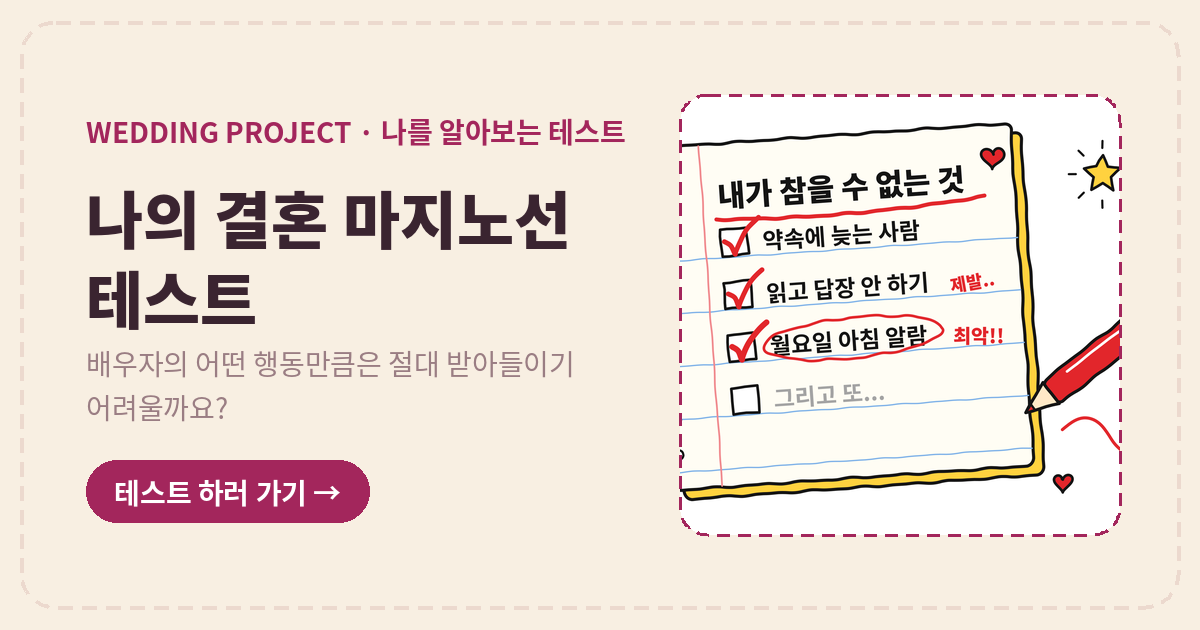
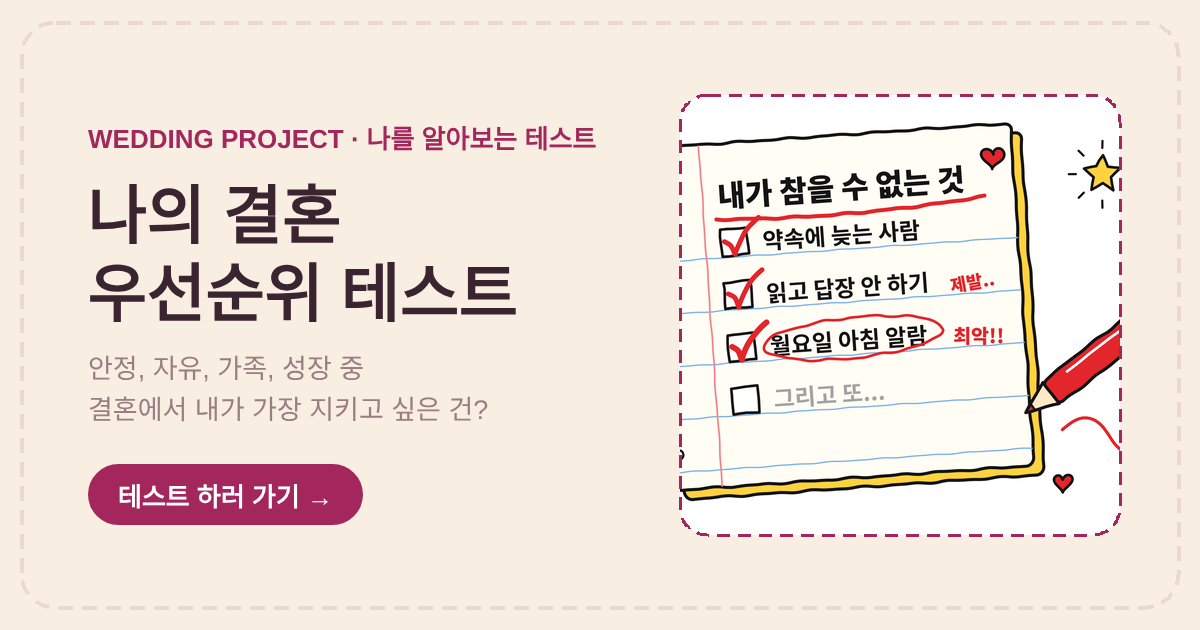
테스트 이름 변경: 나의 결혼 마지노선 테스트 → 나의 결혼 우선순위 테스트
Claude-Session: https://claude.ai/code/session_01S32QDWXtYsxnzG1g1uiRkP

diff --git a/test3/index.html b/test3/index.html
@@ -3,7 +3,7 @@
 <head>
 <meta charset="UTF-8">
 <meta name="viewport" content="width=device-width, initial-scale=1.0">
-<title>결혼 마지노선 테스트</title>
+<title>나의 결혼 우선순위 테스트</title>
 <link rel="preconnect" href="https://fonts.googleapis.com">
 <link rel="stylesheet" href="https://fonts.googleapis.com/css2?family=Gaegu:wght@400;700&family=Noto+Sans+KR:wght@400;500;700;900&display=swap">
 <style>
@@ -302,7 +302,7 @@
   <!-- intro -->
   <div class="screen active" id="screen-intro">
     <img class="hero-img" src="hero.png" alt="">
-    <h1>나의 결혼 마지노선 테스트</h1>
+    <h1>나의 결혼 우선순위 테스트</h1>
     <p class="desc">
       결혼생활에서 배우자의 어떤 행동만큼은 절대 받아들이기 어려울까요?<br><br>
       10가지 상황에 대한 질문에 답하면,<br>
@@ -327,7 +327,7 @@
     <div class="top-card" id="top-card" style="display:none;">
       <div class="top-card-imgs" id="top-card-imgs"></div>
     </div>
-    <div class="result-badge">나의 결혼 마지노선</div>
+    <div class="result-badge">나의 결혼 우선순위</div>
     <div class="result-title" id="result-title"></div>
     <div class="result-desc" id="result-desc"></div>
 
@@ -637,7 +637,7 @@ function mkImg(){
   c.save();c.shadowColor="rgba(58,36,48,.18)";c.shadowBlur=36;c.shadowOffsetY=16;rr(c,cx,cy0,cw,ch,40);c.fillStyle=CARD;c.fill();c.restore();
   c.save();c.setLineDash([12,10]);c.lineWidth=3;c.strokeStyle=ACC;rr(c,cx,cy0,cw,ch,40);c.stroke();c.restore();
   var py=cy0+58;
-  c.textBaseline="alphabetic";c.textAlign="center";c.fillStyle=ACC;c.font="700 34px "+GF;c.fillText("✦ 나의 결혼 마지노선 테스트 ✦",W/2,py);py+=46;
+  c.textBaseline="alphabetic";c.textAlign="center";c.fillStyle=ACC;c.font="700 34px "+GF;c.fillText("✦ 나의 결혼 우선순위 테스트 ✦",W/2,py);py+=46;
   /* 완성된 캐릭터 카드(이름/문구 포함)를 그대로 보여줌 - 1장 또는 동점이면 여러 장 */
   var n=loaded.length,gap=36,phW=Math.min(420,(cw-112-(n-1)*gap)/n),rowW=n*phW+(n-1)*gap,startX=W/2-rowW/2;
   loaded.forEach(function(img,i){
@@ -661,11 +661,11 @@ function mkImg(){
   c.fillStyle=ACC;c.font="700 30px "+GF;c.fillText("Wedding Project",W/2,py);
   cv.toBlob(function(b){done(b)},"image/png")})}).catch(function(){return new Promise(function(done){
   var W=1080,H=700,cv=document.createElement("canvas");cv.width=W;cv.height=H;var c=cv.getContext("2d");
-  c.fillStyle="#f8efe2";c.fillRect(0,0,W,H);c.textAlign="center";c.fillStyle="#a3265c";c.font="700 56px "+GF;c.fillText("나의 결혼 마지노선 테스트",W/2,350);
+  c.fillStyle="#f8efe2";c.fillRect(0,0,W,H);c.textAlign="center";c.fillStyle="#a3265c";c.font="700 56px "+GF;c.fillText("나의 결혼 우선순위 테스트",W/2,350);
   cv.toBlob(function(b){done(b)},"image/png")})})
 }
 var FN='"Noto Sans KR","Apple SD Gothic Neo","Malgun Gothic",sans-serif';
-function sumTxt(){return "나의 결혼 마지노선 테스트 결과: " + LR.topTypes.map(function(t){return RESULTS[t].name}).join(" · ")}
+function sumTxt(){return "나의 결혼 우선순위 테스트 결과: " + LR.topTypes.map(function(t){return RESULTS[t].name}).join(" · ")}
 
 [1,2].forEach(function(n){
  var saveBtn=document.getElementById('sv'+n),shareBtn=document.getElementById('sh'+n);
@@ -678,14 +678,14 @@ function sumTxt(){return "나의 결혼 마지노선 테스트 결과: " + LR.to
  saveBtn.onclick=function(){st.textContent='사진을 만드는 중이에요.';
   mkImg().then(function(blob){
    var url=showPreview(blob);
-   try{var a=document.createElement('a');a.href=url;a.download='결혼마지노선-결과.png';document.body.appendChild(a);a.click();document.body.removeChild(a);
+   try{var a=document.createElement('a');a.href=url;a.download='결혼우선순위-결과.png';document.body.appendChild(a);a.click();document.body.removeChild(a);
     st.textContent='사진을 저장했어요. 저장되지 않았다면 아래 사진을 길게 눌러 저장해 주세요.'}
    catch(e){hint()}
   }).catch(function(){st.textContent='사진을 만들지 못했어요. 다시 시도해 주세요.'})};
  shareBtn.onclick=function(){
   function fb(){var s=sumTxt();try{navigator.clipboard.writeText(s).then(function(){st.textContent='공유 기능을 쓸 수 없어 결과 요약을 복사했어요. 사진으로 저장해서 함께 보내 주세요.'},function(){st.textContent='공유 기능을 쓸 수 없어요. 사진으로 저장해서 보내 주세요.'})}catch(e){st.textContent='공유 기능을 쓸 수 없어요. 사진으로 저장해서 보내 주세요.'}}
-  mkImg().then(function(blob){var f=new File([blob],'결혼마지노선-결과.png',{type:'image/png'});
-   if(navigator.canShare&&navigator.canShare({files:[f]}))return navigator.share({files:[f],title:'나의 결혼 마지노선 테스트',text:sumTxt()});
+  mkImg().then(function(blob){var f=new File([blob],'결혼우선순위-결과.png',{type:'image/png'});
+   if(navigator.canShare&&navigator.canShare({files:[f]}))return navigator.share({files:[f],title:'나의 결혼 우선순위 테스트',text:sumTxt()});
    fb()}).catch(function(e){if(!e||e.name!=='AbortError')fb()})};
 });
 

diff --git a/games/index.html b/games/index.html
@@ -4,11 +4,11 @@
 <meta charset="utf-8">
 <meta name="viewport" content="width=device-width, initial-scale=1">
 <title>테스트 & 밸런스 게임 모아보기 | 웨딩 프로젝트</title>
-<meta name="description" content="결혼 가치관 맞춰보기, 결혼 마지노선 테스트, 신혼생활 밸런스 게임까지. 둘이 함께 해보는 결혼 테스트를 한곳에 모았어요.">
+<meta name="description" content="결혼 가치관 맞춰보기, 결혼 우선순위 테스트, 신혼생활 밸런스 게임까지. 둘이 함께 해보는 결혼 테스트를 한곳에 모았어요.">
 <meta property="og:type" content="website">
 <meta property="og:site_name" content="웨딩 프로젝트">
 <meta property="og:title" content="테스트 & 밸런스 게임 모아보기 | 웨딩 프로젝트">
-<meta property="og:description" content="결혼 가치관 맞춰보기, 결혼 마지노선 테스트, 신혼생활 밸런스 게임까지. 둘이 함께 해보는 결혼 테스트를 한곳에 모았어요.">
+<meta property="og:description" content="결혼 가치관 맞춰보기, 결혼 우선순위 테스트, 신혼생활 밸런스 게임까지. 둘이 함께 해보는 결혼 테스트를 한곳에 모았어요.">
 <meta property="og:image" content="https://wedding-project.softloomon.workers.dev/og/home.png">
 <meta property="og:image:width" content="1200">
 <meta property="og:image:height" content="630">

diff --git a/tests-data.js b/tests-data.js
@@ -2,7 +2,7 @@
    새 테스트는 여기에 한 줄 추가하면 돼요. game:true 면 '게임 하기' 버튼이 나와요.
    done: 결과 화면이 나왔는지 알아보는 표시(이게 보이면 아래에 다른 게임 추천이 나와요) */
 window.WP_TESTS = [
-  { id:"majinoseon", title:"나의 결혼 마지노선 테스트", desc:"배우자의 어떤 행동만큼은 절대 받아들이기 어려울까요?", img:"test3/card.svg", src:"test3/", tone:"#ffffff", fit:true, done:"#screen-result.active" },
+  { id:"majinoseon", title:"나의 결혼 우선순위 테스트", desc:"안정, 자유, 가족, 성장 중 결혼에서 내가 가장 지키고 싶은 건?", img:"test3/card.svg", src:"test3/", tone:"#ffffff", fit:true, done:"#screen-result.active" },
   { id:"values", title:"결혼 가치관 맞춰보기", desc:"우리, 결혼에 대해 같은 그림을 그리고 있을까?", img:"values/hero.jpg", src:"values/", tone:"#fffaf2", done:"#rs, #cp" },
   { id:"balance", title:"신혼생활 밸런스 게임", desc:"정답은 없어요. 다만 둘의 답이 다를 뿐! 20문항, 2분이면 끝.", img:"balance/img/cover.png", src:"balance/", tone:"#ffffff", fit:true, game:true, done:"#resTitle, #retryBtn" }
 ];

diff --git a/index.html b/index.html
@@ -11,7 +11,7 @@
 <meta property="og:type" content="website">
 <meta property="og:site_name" content="웨딩 프로젝트">
 <meta property="og:title" content="웨딩 프로젝트 | 예비부부를 위한 결혼 테스트">
-<meta property="og:description" content="결혼 가치관 맞춰보기, 결혼 마지노선 테스트, 신혼생활 밸런스 게임으로 둘의 생각을 맞춰 보세요.">
+<meta property="og:description" content="결혼 가치관 맞춰보기, 결혼 우선순위 테스트, 신혼생활 밸런스 게임으로 둘의 생각을 맞춰 보세요.">
 <meta property="og:image" content="https://wedding-project.softloomon.workers.dev/og/home.png">
 <meta property="og:image:width" content="1200">
 <meta property="og:image:height" content="630">

diff --git a/worker.js b/worker.js
@@ -395,8 +395,8 @@ const PAGES = {
     image: "/og/values.png",
   },
   "/test3/": {
-    title: "나의 결혼 마지노선 테스트 | 웨딩 프로젝트",
-    desc: "배우자의 어떤 행동만큼은 절대 받아들이기 어려울까요? 나의 결혼 마지노선을 알아보세요.",
+    title: "나의 결혼 우선순위 테스트 | 웨딩 프로젝트",
+    desc: "안정, 자유, 가족, 성장 중 결혼에서 내가 가장 지키고 싶은 건 무엇일까요? 10가지 상황으로 나의 결혼 우선순위를 알아보세요.",
     image: "/og/test3.png",
   },
   "/balance/": {

diff --git a/README.md b/README.md
@@ -6,7 +6,7 @@
 
 - `index.html` — Wedding Project 메인 페이지. 카테고리 4개: ① 테스트 & 밸런스 게임(카드 슬라이드) ② 결혼 준비 정보 ③ 연인이 나누면 좋을 대화 질문 ④ 궁금한 점 질문하기(질문 접수 폼)
 - `values/index.html` — 결혼 가치관 맞춰보기 테스트 (질문, 결과 화면, 이미지 저장/공유 기능 포함)
-- `test3/index.html` — 나의 결혼 마지노선 테스트
+- `test3/index.html` — 나의 결혼 우선순위 테스트
 - `balance/index.html` — 신혼생활 밸런스 게임 (그림은 `balance/img/`)
 - `qna/` — 익명 질문방 페이지(`index.html`), 관리자 페이지(`admin.html`), 공통 스크립트·스타일
 - `worker.js`, `wrangler.jsonc`, `.assetsignore` — Cloudflare Workers 설정과 익명 질문방 API
@@ -70,7 +70,7 @@ Vercel이나 Netlify 둘 다 대시보드의 **Domains** 메뉴에서 구매한 
 
 - 테스트마다 자기 주소가 있어요. 블로그나 메신저에는 이 주소를 붙여 넣으세요.
   - 결혼 가치관 맞춰보기: `https://wedding-project.softloomon.workers.dev/values/`
-  - 나의 결혼 마지노선 테스트: `https://wedding-project.softloomon.workers.dev/test3/`
+  - 나의 결혼 우선순위 테스트: `https://wedding-project.softloomon.workers.dev/test3/`
   - 신혼생활 밸런스 게임: `https://wedding-project.softloomon.workers.dev/balance/`
   - 익명 질문방: `https://wedding-project.softloomon.workers.dev/qna/`
   - 결혼 준비 정보: `…/info/`, 준비 순서 `…/info/order/`, 체크리스트 `…/info/checklist/`, 웨딩 박람회 `…/info/fair/`
